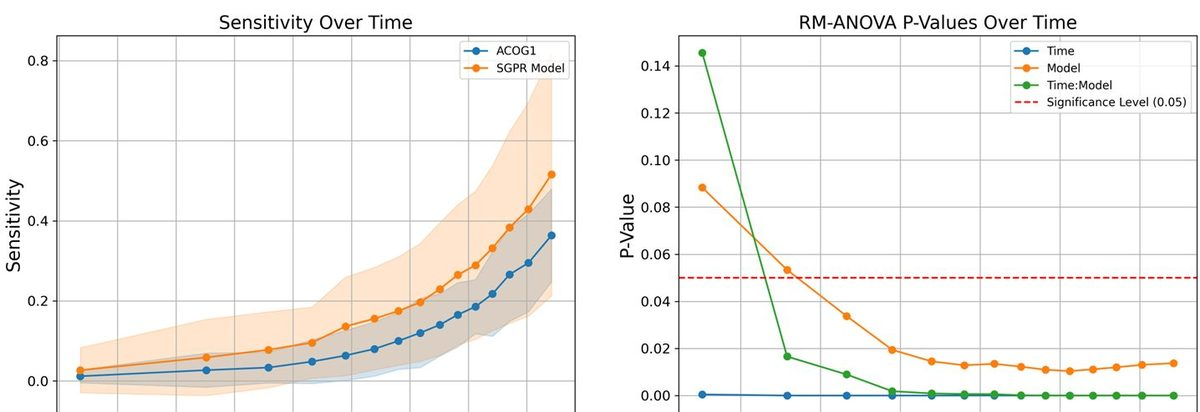
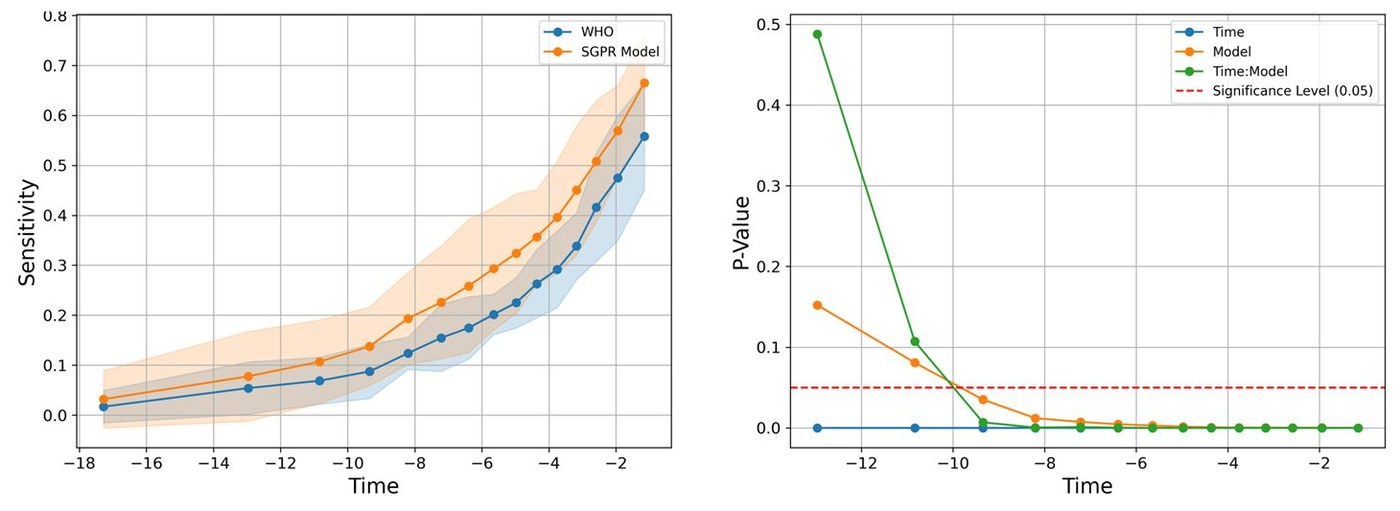
Deep audit: improve figures, remove equations, fix security
- Remove Posterior mean/variance equation cards from labor page
- Add SGPR overview and GP improvements diagrams to labor method section
- Regenerate BKV framework, compartments, causal network as clean diagrams
- Replace BKV PINNs results with real patient data version (slide26)
- Use better sensitivity plot with full axis labels (WHO comparison)
- Clean black backgrounds from all presentation-extracted figures
- Use higher-res SR simulation image
- Remove 2 unused images (bkv-pinns-metrics, labor-metrics)
- Add rel=noopener noreferrer to 11 external links in index.html
- Clean dead equation CSS from labor page

Changed region(s): [[0.0, 0.0, 1.0, 1.0], [0.8633, 0.6117, 0.8942, 0.6408], [0.74, 0.6117, 0.7708, 0.6408]]

diff --git a/research/labor-progression.html b/research/labor-progression.html
@@ -52,8 +52,7 @@
         .panel,
         .metric-card,
         .publication-card,
-        .flow-step,
-        .equation-card {
+        .flow-step {
             background: var(--bg-card);
             border: 1px solid var(--border);
             border-radius: 20px;
@@ -70,8 +69,7 @@
         .panel h2,
         .results-panel h3,
         .publication-card h3,
-        .flow-step h3,
-        .equation-card h3 {
+        .flow-step h3 {
             color: var(--text);
             margin-bottom: 12px;
         }
@@ -80,7 +78,6 @@
         .results-list li,
         .publication-card p,
         .flow-step p,
-        .equation-card p,
         .assumption-list li {
             color: var(--text-light);
         }
@@ -190,19 +187,6 @@
             background: rgba(37, 99, 235, 0.12);
             color: var(--primary);
         }
-        .equation-grid {
-            display: grid;
-            grid-template-columns: repeat(2, minmax(0, 1fr));
-            gap: 18px;
-            margin-top: 24px;
-        }
-        .equation-card {
-            padding: 24px;
-            overflow-x: auto;
-        }
-        .equation-card .math {
-            margin: 14px 0;
-        }
         .publication-grid {
             grid-template-columns: repeat(auto-fit, minmax(280px, 1fr));
         }
@@ -242,8 +226,7 @@
         }
         @media (max-width: 900px) {
             .hero-panel,
-            .overview-grid,
-            .equation-grid {
+            .overview-grid {
                 grid-template-columns: 1fr;
             }
         }
@@ -259,7 +242,6 @@
             }
             .panel,
             .data-banner,
-            .equation-card,
             .publication-card,
             .flow-step,
             .metric-card {
@@ -402,7 +384,15 @@
 
         <section id="method" class="section section-alt">
             <div class="container">
-                <h2 class="section-title">Methodology Flow</h2>
+                <h2 class="section-title">Methodology</h2>
+                <div class="figure-panel" style="margin-bottom:24px;">
+                    <img src="../assets/research/labor-sgpr-overview.jpg" alt="SGPR model overview: input variables, mathematical model, and prediction targets" loading="lazy">
+                    <div class="figure-caption"><strong>Model overview.</strong> The SGPR model takes 6 input variables from the previous time step and predicts cervical dilation D(t) and fetal station S(t). Each patient is treated as a separate meta-task.</div>
+                </div>
+                <div class="figure-panel" style="margin-bottom:24px;">
+                    <img src="../assets/research/labor-gp-improvements.jpg" alt="Challenges and solutions: scalability with SGPR, adaptability with meta-learning" loading="lazy">
+                    <div class="figure-caption"><strong>Key innovations.</strong> SGPR introduces inducing points to reduce complexity from O(n³) to O(nm²). Meta-learning enables rapid adaptation to new patients with limited observations.</div>
+                </div>
                 <div class="flowchart">
                     <article class="flow-step">
                         <div class="flow-index">1</div>
@@ -425,22 +415,7 @@
                         <p>Posterior forecasts are benchmarked against WHO and ACOG labor curves to quantify the value of individualized prediction.</p>
                     </article>
                 </div>
-                <div class="equation-grid">
-                    <article class="equation-card">
-                        <h3>Posterior mean</h3>
-                        <div class="math">\[
-                            \mu(x_*) = K(x_*, X)\left[K(X,X) + \sigma^2 I\right]^{-1} y
-                        \]</div>
-                        <p>The posterior mean gives the expected future labor state for a candidate time-covariate point \(x_*\).</p>
-                    </article>
-                    <article class="equation-card">
-                        <h3>Posterior variance</h3>
-                        <div class="math">\[
-                            \operatorname{Var}(f_*) = K(x_*, x_*) - K(x_*, X)\left[K(X,X) + \sigma^2 I\right]^{-1}K(X, x_*)
-                        \]</div>
-                        <p>The posterior variance quantifies how much confidence clinicians should place in the individualized forecast.</p>
-                    </article>
-                </div>
+
             </div>
         </section>
 
@@ -463,7 +438,7 @@
                 </div>
                 <div class="figure-panel">
                     <img src="../assets/research/labor-sensitivity.jpg" alt="Sensitivity over time and RM-ANOVA P-values" loading="lazy">
-                    <div class="figure-caption"><strong>Statistical validation.</strong> Left: Sensitivity over time comparing SGPR model vs. ACOG guidelines. Right: RM-ANOVA P-values confirm statistically significant differences (Time, Model, and Time×Model interactions below 0.05 threshold).</div>
+                    <div class="figure-caption"><strong>Statistical validation.</strong> Left: Sensitivity over time comparing SGPR model vs. WHO guidelines — SGPR consistently outperforms. Right: RM-ANOVA P-values confirm statistically significant differences (Time, Model, and Time×Model interactions all below the 0.05 significance threshold).</div>
                 </div>
             </div>
         </section>

diff --git a/index.html b/index.html
@@ -45,16 +45,16 @@
                 <p class="subtitle">Ph.D. in Applied Mathematics</p>
                 <p class="tagline">Data Scientist at Microsoft | Scientific Machine Learning | Uncertainty Quantification</p>
                 <div class="hero-links">
-                    <a href="https://scholar.google.com/citations?user=ShuoePgAAAAJ&hl=en" target="_blank" class="btn btn-primary">
+                    <a href="https://scholar.google.com/citations?user=ShuoePgAAAAJ&hl=en" target="_blank" rel="noopener noreferrer" class="btn btn-primary">
                         <i class="fas fa-graduation-cap"></i> Google Scholar
                     </a>
-                    <a href="https://github.com/TZhoroev" target="_blank" class="btn btn-secondary">
+                    <a href="https://github.com/TZhoroev" target="_blank" rel="noopener noreferrer" class="btn btn-secondary">
                         <i class="fab fa-github"></i> GitHub
                     </a>
-                    <a href="https://linkedin.com/in/tzhoroev" target="_blank" class="btn btn-secondary">
+                    <a href="https://linkedin.com/in/tzhoroev" target="_blank" rel="noopener noreferrer" class="btn btn-secondary">
                         <i class="fab fa-linkedin"></i> LinkedIn
                     </a>
-                    <a href="assets/Zhoroev_CV.pdf" target="_blank" class="btn btn-outline">
+                    <a href="assets/Zhoroev_CV.pdf" target="_blank" rel="noopener noreferrer" class="btn btn-outline">
                         <i class="fas fa-file-pdf"></i> Download CV
                     </a>
                 </div>
@@ -141,7 +141,7 @@
                 <p class="loading">Loading publications...</p>
             </div>
             <div class="publications-link">
-                <a href="https://scholar.google.com/citations?user=ShuoePgAAAAJ&hl=en" target="_blank" class="btn btn-primary">
+                <a href="https://scholar.google.com/citations?user=ShuoePgAAAAJ&hl=en" target="_blank" rel="noopener noreferrer" class="btn btn-primary">
                     View All on Google Scholar <i class="fas fa-external-link-alt"></i>
                 </a>
             </div>
@@ -355,13 +355,13 @@
                     </div>
                 </div>
                 <div class="social-links">
-                    <a href="https://scholar.google.com/citations?user=ShuoePgAAAAJ&hl=en" target="_blank" title="Google Scholar">
+                    <a href="https://scholar.google.com/citations?user=ShuoePgAAAAJ&hl=en" target="_blank" rel="noopener noreferrer" title="Google Scholar">
                         <i class="fas fa-graduation-cap"></i>
                     </a>
-                    <a href="https://github.com/TZhoroev" target="_blank" title="GitHub">
+                    <a href="https://github.com/TZhoroev" target="_blank" rel="noopener noreferrer" title="GitHub">
                         <i class="fab fa-github"></i>
                     </a>
-                    <a href="https://linkedin.com/in/tzhoroev" target="_blank" title="LinkedIn">
+                    <a href="https://linkedin.com/in/tzhoroev" target="_blank" rel="noopener noreferrer" title="LinkedIn">
                         <i class="fab fa-linkedin"></i>
                     </a>
                 </div>
@@ -373,9 +373,9 @@
         <div class="container">
             <div class="footer-content">
                 <div class="footer-social">
-                    <a href="https://scholar.google.com/citations?user=ShuoePgAAAAJ&hl=en" target="_blank" title="Google Scholar"><i class="fas fa-graduation-cap"></i></a>
-                    <a href="https://github.com/TZhoroev" target="_blank" title="GitHub"><i class="fab fa-github"></i></a>
-                    <a href="https://linkedin.com/in/tzhoroev" target="_blank" title="LinkedIn"><i class="fab fa-linkedin"></i></a>
+                    <a href="https://scholar.google.com/citations?user=ShuoePgAAAAJ&hl=en" target="_blank" rel="noopener noreferrer" title="Google Scholar"><i class="fas fa-graduation-cap"></i></a>
+                    <a href="https://github.com/TZhoroev" target="_blank" rel="noopener noreferrer" title="GitHub"><i class="fab fa-github"></i></a>
+                    <a href="https://linkedin.com/in/tzhoroev" target="_blank" rel="noopener noreferrer" title="LinkedIn"><i class="fab fa-linkedin"></i></a>
                 </div>
                 <p>&copy; 2026 Tilekbek Zhoroev. All rights reserved.</p>
             </div>

diff --git a/research/pinns-bkv.html b/research/pinns-bkv.html
@@ -323,7 +323,7 @@
                 <h2 class="section-title">Results</h2>
                 <div class="figure-panel" style="margin-bottom:24px;">
                     <img src="../assets/research/bkv-pinns-results.jpg" alt="PINNs results: exact vs learned dynamics for all compartments" loading="lazy">
-                    <div class="figure-caption"><strong>PINNs trajectory recovery.</strong> Exact (red) vs. PINNs-learned (black dashed) dynamics for all compartments: susceptible cells (H<sub>S</sub>), infected cells (H<sub>I</sub>), BK virus (V), BK-specific T-cells (E<sub>V</sub>), allospecific T-cells (E<sub>K</sub>), hidden function h, and creatinine (C).</div>
+                    <div class="figure-caption"><strong>PINNs trajectory fitting on real patient data.</strong> Magenta dots show observed clinical data; black dashed curves show PINNs-learned dynamics for all six compartments: susceptible cells (H<sub>S</sub>), infected cells (H<sub>I</sub>), creatinine (C), BK-specific T-cells (E<sub>V</sub>), allospecific T-cells (E<sub>K</sub>), and BK virus (V).</div>
                 </div>
                 <div class="figures-row" style="margin-bottom:24px;">
                     <div class="figure-panel">
